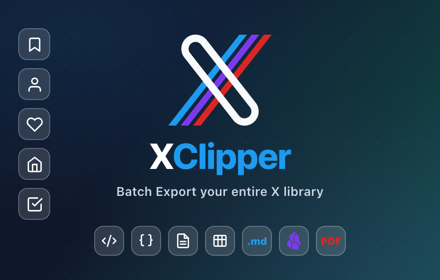
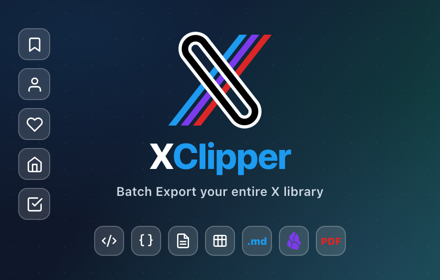
fix(branding): repoint promo tiles at the single mark and true up the band clip
The `-dark` mark went away when one asset started covering both backgrounds,
but promo.html still pointed two <img> tags at it, so the marquee header and
the small tile rendered with broken images.

The wordmark's band clip was also a rounded rather than exact 0.625 scale of
the mark's, cropping the colour stripes slightly short at both ends.

Changed region(s): [[0.3841, 0.1143, 0.6205, 0.4571]]

diff --git a/store/mockups/promo.html b/store/mockups/promo.html
@@ -281,7 +281,7 @@
 
     <div class="marquee-header">
       <div class="header-inner">
-        <img class="brand-mark" src="../../assets/xclipper-mark-dark.svg" width="82" height="82" alt="">
+        <img class="brand-mark" src="../../assets/xclipper-mark.svg" width="82" height="82" alt="">
         <div class="header-titles">
           <h1>X<span style="color: var(--brand-blue);">Clipper</span> — Export Your Entire X Library</h1>
           <div class="tag">Posts, threads &amp; articles → Markdown, PDF, HTML, JSON, CSV &amp; Obsidian</div>
@@ -468,7 +468,7 @@
 
     <!-- Brand lockup (big, nudged up & left) + small tagline -->
     <div class="s-brand">
-      <img src="../../assets/xclipper-mark-dark.svg" width="104" height="104" alt="">
+      <img src="../../assets/xclipper-mark.svg" width="104" height="104" alt="">
       <div class="wm">X<span>Clipper</span></div>
       <div class="head">Batch Export your entire <span class="x">X</span> library</div>
     </div>
